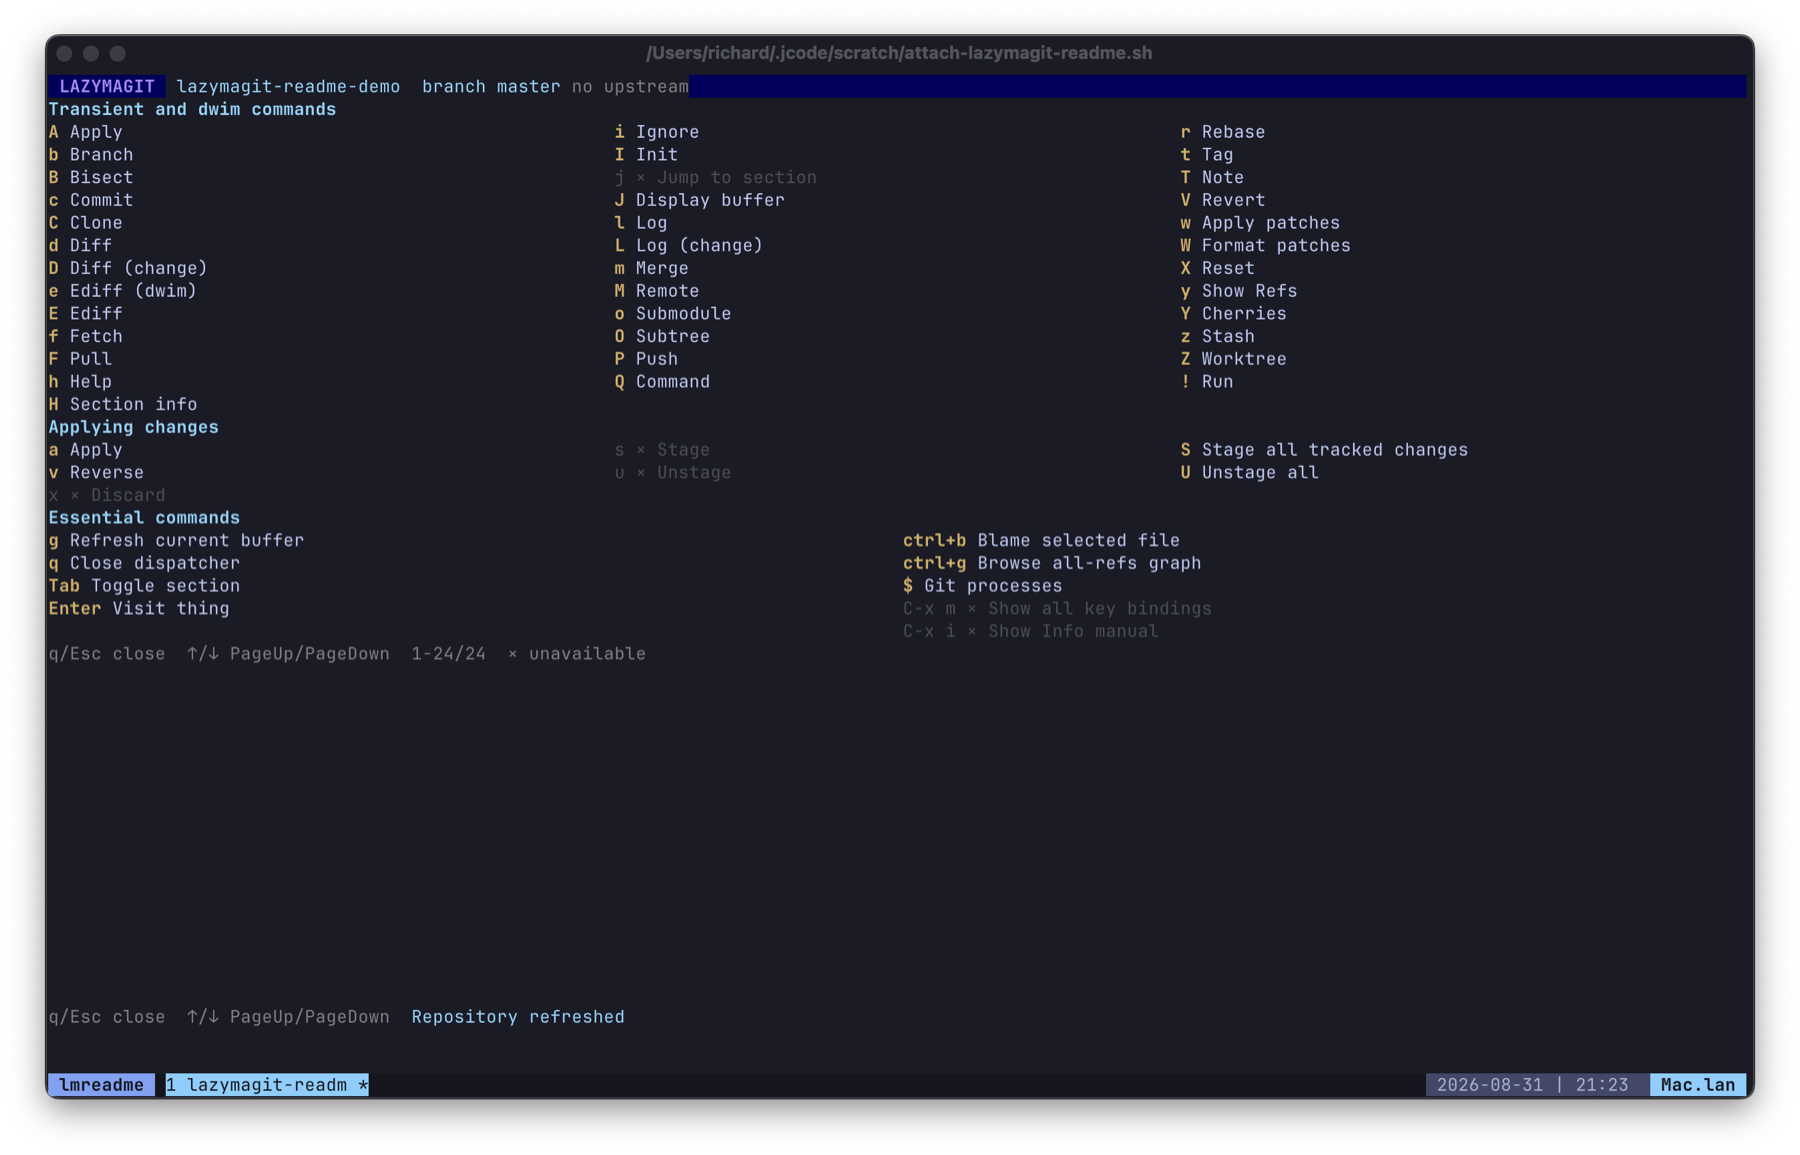
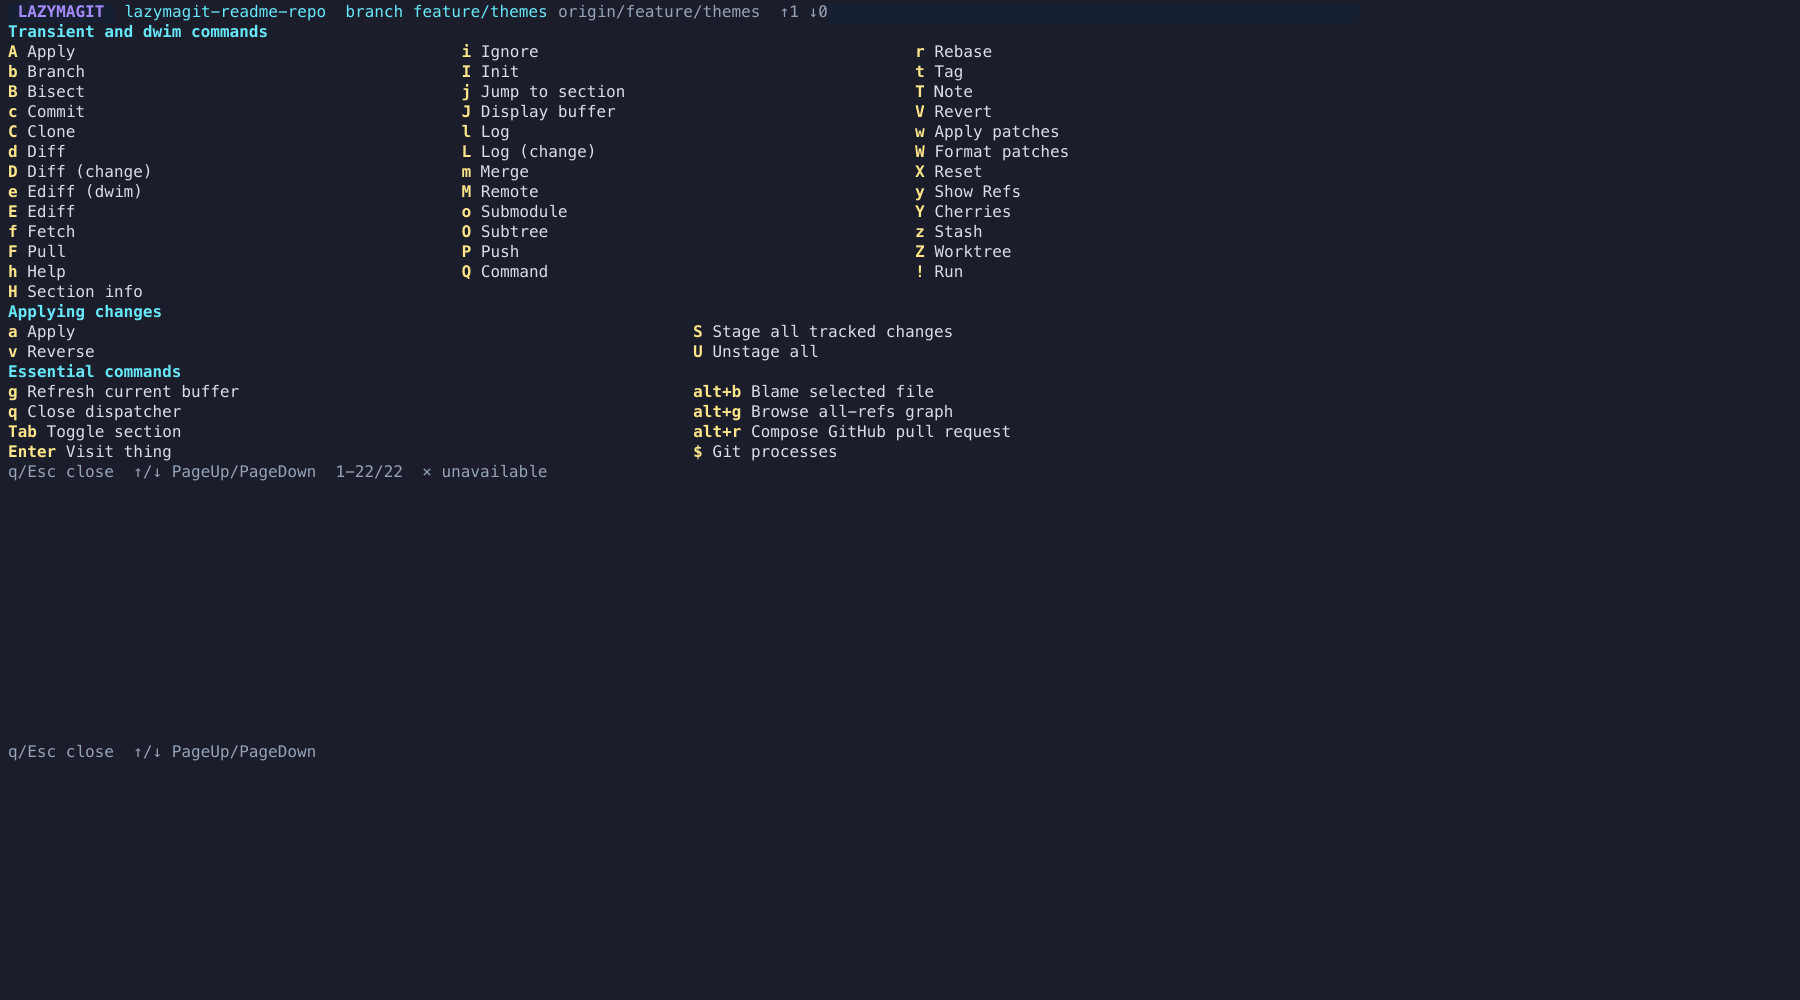
docs: simplify README and refresh screenshots

diff --git a/README.md b/README.md
@@ -1,346 +1,59 @@
 # lazymagit
 
-`lazymagit` is a standalone Go TUI inspired by Magit's status-buffer
-workflow. It combines a section-oriented Git view with Doom Emacs's
-Magit/Evil command bindings and navigation.
+A fast, keyboard-first Git client for the terminal. Lazymagit combines a
+Magit-style status buffer with Doom/Evil-inspired navigation and review-first
+safety for Git operations.
 
 ![Go](https://img.shields.io/badge/Go-1.25+-00ADD8)
 ![TUI](https://img.shields.io/badge/TUI-Bubble_Tea_v2-7D56F4)
 
+## Why lazymagit?
+
+- **Magit workflow, terminal speed** — see and act on your entire working tree.
+- **Safe by default** — review plans and re-check state before destructive work.
+- **Precise changes** — stage, unstage, discard, and review files, hunks, or lines.
+- **Complete workflow** — branches, remotes, worktrees, conflicts, history, and PRs.
+- **Comfortable editing** — Vim-style commit and PR buffers with drafts and undo.
+
 ## Screenshots
 
-### Status and diff
+![Status view with staged, unstaged, and untracked changes beside a selected diff](docs/images/lazymagit-status.png)
 
-![Lazymagit status view showing staged, unstaged, and untracked files beside a selected diff](docs/images/lazymagit-status.png)
-
-### Command dispatcher
-
-![Lazymagit command dispatcher showing Magit-style transient command groups](docs/images/lazymagit-commands.png)
-
-## Features
-
-- Porcelain-v2 status parsing with separate staged and unstaged state
-- Safe handling of spaces, Unicode, leading dashes, and Git pathspec magic
-- Stable, foldable sections for untracked, unstaged, staged, upstream, and log
-- Persistent selectable log/graph rows with contextual cherry-pick, revert, reset, and revision inspection
-- Selectable blame lines with exact commit drilldown and restored cursor position
-- Three-stage conflict inspection with direct reviewed ours/theirs resolution
-- Marked multi-file and reviewed file/hunk/multi-hunk/disjoint-region stage, unstage, and discard
-- Stale-safe interactive patch reviews that revalidate the exact source diff before mutation and reject unresolved conflicts
-- Commit creation, revision inspection, searchable branch switching, multi-remote browsing, and reviewed remote-branch publishing/deletion
-- Vim-style commit and PR message buffers with wrapping, visual selection, undo/redo, paste, and persistent drafts
-- Reviewed GitHub PR creation/editing through `gh`, with title/body, base branch, and draft/ready controls
-- Reviewed merge, non-interactive rebase, cherry-pick/revert, reset, and bisect workflows with stale-state rejection
-- Standard side-by-side and optional compact borderless status/diff layouts
-- Universal status-row search with `/`, then `n` / `N` navigation
-- Searchable worktree and branch browsers
-- Bundled default, Tokyo Night, Catppuccin Mocha, Nord, Dracula, Gruvbox Dark, and Solarized Dark themes
-- Responsive Magit-style command transients with explicit unavailable actions
-- Asynchronous Git operations with stale-result protection
-- Bounded Magit-style Git process transcript with terminal-safe clipboard copy
-- Terminal-control sanitization for untrusted repository content
+![Magit-style command dispatcher](docs/images/lazymagit-commands.png)
 
 ## Install
 
 ### Go
 
-With Go 1.25 or newer installed:
-
 ```sh
 go install github.com/richardrh/lazymagit/cmd/lazymagit@latest
 ```
 
-The binary is installed into `$(go env GOPATH)/bin` unless `GOBIN` is set.
+### Release downloads
 
-### Linux release packages
+Download binaries or native Debian, RPM, and Arch packages from the
+[latest GitHub release](https://github.com/richardrh/lazymagit/releases/latest).
 
-Each tagged GitHub release publishes `amd64` and `arm64` binaries plus native
-Debian, RPM, and Arch Linux packages. Download the package for your architecture
-from the [releases page](https://github.com/richardrh/lazymagit/releases), then
-install it with the platform package manager:
+## Run
 
 ```sh
-# Ubuntu or Debian
-sudo apt install ./lazymagit_*_linux_amd64.deb
-
-# Fedora or another RPM-based distribution
-sudo dnf install ./lazymagit_*_linux_amd64.rpm
-
-# Arch Linux
-sudo pacman -U ./lazymagit_*_linux_amd64.pkg.tar.zst
+lazymagit [repository]
 ```
 
-Generic Linux, macOS, and Windows archives and `checksums.txt` are published
-by the release workflow for every `v*` tag. `go install` users can install
-the module directly; there is not currently a Homebrew tap or formula.
-
-## Build
-
-Requirements: Go 1.25 or newer and Git available on `PATH`.
-GitHub PR composition additionally requires the GitHub CLI (`gh`) with an existing authenticated session.
-
-```sh
-make check
-CGO_ENABLED=0 go build -o lazymagit ./cmd/lazymagit
-./lazymagit [--init] [--theme NAME] [--layout standard|compact] [repository]
-```
-
-`make check` runs formatting, vet, race-enabled tests, the complexity
-threshold check, and generated-keybinding drift checks. To run only the Go
-tests, use `go test ./...`.
-
-The CRAP quality gate currently rejects scores above 100. Accepted scores are
-tracked in `internal/quality/crap-baseline.json` so later changes cannot add
-new violations or worsen existing ones.
-
-The resulting executable contains the Go application and TUI dependencies in
-one binary. Like Magit itself, it invokes the system Git executable for Git
-semantics, hooks, configuration, and authentication.
-
-When the selected directory is not a repository, an interactive invocation
-asks before running `git init`. A non-interactive invocation never prompts;
-pass `--init` to initialize an existing directory explicitly. The explicit
-form initializes the exact directory given, even when that directory is inside
-another repository. Existing repositories (including bare repositories) are
-never reinitialized. Use `--` before a repository path that begins with a dash,
-for example `./lazymagit -- --project`.
-
-## Documentation
-
-The documentation site uses [Hugo Extended](https://gohugo.io/) with the
-[Hextra](https://imfing.github.io/hextra/) theme. Site sources live under
-`doc/content/`; the focused Markdown notes under `docs/` are synchronized into
-the site during each build. See the [documentation site README](doc/README.md)
-for prerequisites and maintenance details.
-
-Preview or build the site from the repository root:
-
-```sh
-make -C doc serve
-make -C doc build
-```
-
-Local site output is written to `doc/public/` and is not committed. The
-development server is available at <http://localhost:1313/lazymagit/>.
-
-`docs/keybindings.md` remains the canonical generated keybinding ledger. Do not
-edit it by hand. Regenerate it with:
-
-```sh
-go run ./internal/keymap/cmd/keymapdoc
-```
-
-Check for generated-documentation drift with:
-
-```sh
-go run ./internal/keymap/cmd/keymapdoc -check
-```
+Use `--init` to initialize a non-repository directory without prompting.
 
 ## Themes
 
-Themes can be selected at startup with `--theme` or changed in the status
-view with the `F2` theme picker. The default is `default`. The bundled themes
-and their canonical names are:
-
-| Theme | Name |
-|---|---|
-| Default | `default` |
-| Tokyo Night | `tokyo-night` |
-| Catppuccin Mocha | `catppuccin-mocha` |
-| Nord | `nord` |
-| Dracula | `dracula` |
-| Gruvbox Dark | `gruvbox-dark` |
-| Solarized Dark | `solarized-dark` |
-
-Use either a canonical name or its display spelling. Names are
-case-insensitive, and spaces or underscores are treated like hyphens.
-`catppuccin` is also accepted as an alias for Catppuccin Mocha. For example:
+Choose a theme at startup:
 
 ```sh
-./lazymagit --theme nord
-./lazymagit --theme "Catppuccin Mocha" ./my-repository
-./lazymagit --theme gruvbox_dark
+lazymagit --theme nord
 ```
 
-Theme options must appear before the repository path. Restart the application
-with a different `--theme` value to change the palette.
+From the status view, press `F2` to change themes. Use `↑`/`↓` or `j`/`k` to
+move, `Enter` to apply, and `q`/`Esc` to cancel.
 
-While in the status view, press `F2` to open the theme picker. Use `↑`/`↓`
-or `j`/`k` to move, `Enter` to apply the selected theme, and `q`/`Esc` to
-cancel.
+## Documentation
 
-## Keys
-
-The application uses one Doom Magit binding model. There is no Vim/Magit mode
-switch. Bindings follow [Doom's Magit configuration](https://github.com/doomemacs/modules/blob/main/modules/tools/magit/config.el)
-on top of [Evil Collection's Magit bindings](https://github.com/emacs-evil/evil-collection/blob/master/modes/magit/evil-collection-magit.el).
-Git transient suffixes retain Magit's bindings; Doom remaps conflicting
-top-level commands around Vim navigation.
-
-| Action | Keys |
-|---|---|
-| Move / first / last row | `j` / `k`, `gg` / `G` |
-| Next / previous sibling section | `]` / `[`, `gj` / `gk` |
-| Parent section | `gh` |
-| Refresh | `gr`, `gR`, or `gz` |
-| Toggle section | `Tab` or `za` |
-| Open / close section | `zo` / `zc`; `zO` / `zC` recursively |
-| Global section depth | `z1`, `z2`, `z3`, `z4`; `zr` expands |
-| Position selected row at top / center / bottom | `zt` / `zz` / `zb` |
-| Half-page / full-page movement | `Ctrl-d` / `Ctrl-u`, `Ctrl-f` / `Ctrl-b` |
-| Detail viewport start / end | `0` / `$` |
-| Stage / unstage | `s` / `u` |
-| Select changed-line range | `v`, then `j` / `k`; `Space` pins a region |
-| Select multiple hunks | `V` |
-| Search / next / previous match | `/`, then `n` / `N` |
-| Stage tracked modifications / unstage all | `S` / `U` |
-| Change theme | `F2` |
-| Reviewed discard | `x` |
-| Commit | `c c` |
-| Compose or edit the current branch's GitHub PR | `Alt-r` |
-| Switch branch | `b b` |
-| Checkout remote branch as local tracking branch | `b l` |
-| Create branch / reviewed branch deletion | `b c` / `b k` |
-| Fetch upstream / push remote | `f u` / `f p` |
-| Fetch selected remote / all remotes | `f e` / `f a` |
-| Add remote | `M a`; `M -f` enables fetching |
-| Push | `p p` |
-| Merge / rebase / cherry-pick | `m` / `r` / `A` |
-| Revert without commit / revert transient | `-` / `_` |
-| Quick reset / reset transient | `o` / `O` |
-| Stash / worktree | `Z` / `*` |
-| Submodule / subtree | `'` / `"` |
-| Show refs / copy section value / copy revision | `yr` / `ys` / `yb` |
-| Git processes | Backtick |
-| Terminal blame / all-refs graph | `Alt-b` / `Alt-g` |
-| Help / close or quit / quit all | `?` / `q` / `Q` |
-| Cancel a prefix, selection, or dialog | `Esc` or `Ctrl-g` |
-
-The `g`, `z`, and `y` prefixes wait for a suffix; a lone `g` never refreshes
-after a delay. `$` and `0` pan the read-only detail viewport, not Git commands.
-`g=` or `~` restores default diff context; `=` reduces context.
-Doom reserves `gz` for refresh, not the upstream Evil Collection stash jump.
-
-Pressing `b`, `c`, `f`, `p`, or `M` opens a grouped command transient. The
-layout uses multiple columns when space permits and one vertically scrollable
-column on narrow terminals; use arrows or `PageUp`/`PageDown`. Commands that
-are not implemented are omitted from the interactive sheets. Implemented
-actions unavailable in the current repository context remain visible with an
-explicit marker. `q`, `Esc`, or `Ctrl-g` closes a transient.
-
-Inside the `?` dispatcher, suffixes also remain stock Magit: `? P` opens Push,
-`? z` opens Stash, `? Z` opens Worktree, and `? $` opens Git processes.
-Normal-state Doom remaps apply again after the transient closes.
-
-`Ctrl-c Ctrl-e` and `Ctrl-c Ctrl-o` open the selected file, revision, or stash
-in the internal read-only detail pane; they never launch `$EDITOR`, `$BROWSER`,
-or a URL handler. `Ctrl-c Ctrl-r` advances to the next visible decorated
-commit row without wrapping. `Ctrl-c` is a command prefix, not quit.
-
-Status navigation uses Doom bindings; commit and PR messages use the Vim-style
-buffer described below. Other workflow forms retain their terminal controls.
-This is not an embedded Vim/Neovim or full Evil/Forge implementation: Ex commands,
-macros, plugins, and Emacs window management are not provided.
-
-`S` stages all tracked modifications and deletions while intentionally leaving
-untracked files alone. `U` clears all index changes while preserving worktree
-content. Both keys work anywhere in the status view, independent of the
-selected section.
-
-Backtick opens a small process window at the bottom of the status view. It keeps a
-bounded, chronological transcript of mutating Git commands, exit codes,
-durations, stdout, and full useful stderr. Failed operations open the window at
-the latest output automatically. Use arrows or `PageUp`/`PageDown` to scroll,
-and `y` to request copying the entire plain, terminal-sanitized transcript via
-OSC52. The confirmation says “Clipboard copy requested” because terminals do
-not acknowledge OSC52 delivery. The displayed command line is an unambiguous
-human representation of arguments, not a claim that a shell was used.
-Use `q` or `Esc` to close it; backtick inside the process window is ignored,
-matching Doom's protection against recursive process buffers.
-
-`M a` opens separate name and URL fields and adds without fetching. Enable
-`M -f` (or `Ctrl-f` in the modal) to explicitly request `git remote add -f`.
-The command remains available after each add, so repositories can configure any
-number of remotes. Remote choosers show each remote's effective fetch URL and a
-distinct push URL when configured, rather than presenting ambiguous names only.
-The URL is passed to Git exactly as entered; the remote name is trimmed.
-`f u` fetches the upstream remote. `f p` fetches the configured push remote, or
-opens a distinct chooser when none is configured; choosing one records
-`branch.<current>.pushRemote` and then fetches it. `f e` is the fetch-only
-remote chooser and `f a` runs `git fetch --all`. `f f` is intentionally unbound
-to match Magit 4.7's exact sequences.
-
-`b l` selects an exact remote-tracking ref, asks for a local branch name, then
-creates and checks out a tracking branch. `b c` keeps local-only branch creation
-and also offers a publish mode: choose an existing local branch, destination
-remote, and remote branch name, review the exact local commit and observed
-remote destination, then push with upstream configuration. `b k` includes both
-non-current local branches and fetched remote-tracking branches. Remote deletion
-reviews the server-advertised commit again immediately before `git push --delete`.
-Remote rename, removal, configuration, and prune remain reviewed `M` workflows.
-
-`p p` uses ordinary `git push` when the current branch already has an upstream.
-Without an upstream, it pushes with `--set-upstream` to the configured push
-remote. If no push remote is configured, a distinct chooser records
-`branch.<current>.pushRemote` and then pushes the current branch while setting
-its upstream; it does not fetch. The chooser configures the current branch.
-There is not yet a separate prompt for configuring repository-wide
-`remote.pushDefault`.
-
-## Commit and PR message buffers
-
-`c c` opens a commit buffer. `c a` and `c w` preload HEAD's message for amend
-and reword. `Alt-r` opens the current branch's existing open GitHub PR, or
-prepares a new PR with HEAD's message and an available local PR template.
-`Alt-r` is a terminal extension, not a stock Magit suffix.
-
-Write the title/subject on the first line, a blank line, then the body.
-Buffers start in **INSERT** mode. **Esc enters NORMAL mode without closing
-or discarding the message.**
-
-| Action | Keys |
-|---|---|
-| Insert / append | `i`, `I`, `a`, `A` |
-| Open a line below / above | `o` / `O` |
-| Move | `h j k l`, arrows, `w b e`, `0 ^ $`, `gg`, `G`; counts such as `3j` |
-| Delete / change | `x`, `X`, `dd`, `D`, `cc`, `C`, `dw`, `cw` |
-| Character / line selection | `v` / `V`, then motions and `y`, `d`, or `c` |
-| Yank line / put | `yy`, `p`, `P` (buffer-local register) |
-| Undo / redo | `u` / `Ctrl-r` in Normal mode |
-| Newline / paste | `Enter` in Insert mode; normal terminal paste |
-| Move between message, options, and action | `Tab` / `Shift-Tab` |
-| Save draft | `Ctrl-s` |
-| Save draft and close | `Ctrl-g` or `Ctrl-c Ctrl-k` |
-| Submit / review | `Ctrl-c Ctrl-c`, or focus the action and press `Enter` |
-| Toggle commit diff / scroll diff or review | `Alt-d` / `Alt-j`, `Alt-k` |
-
-Long lines wrap without changing the stored message, and the viewport follows
-the cursor. The mode, position, title length, and action remain visible.
-Wide commit buffers show a colored diff beside the message; narrow terminals
-use `Alt-d` to switch between them.
-
-Drafts autosave after 500 ms of inactivity and are also saved before closing
-or submitting. They live in private, untracked Git metadata at
-`<git-dir>/lazymagit/drafts/`, separated by branch and operation. Draft JSON is
-limited to 1 MiB and is local plaintext, not encrypted. A rejected hook or
-failed PR request keeps the buffer open with its text and undo history;
-reopening after a restart restores the saved text and options. Successful
-submission removes the corresponding draft.
-
-For PRs, the first submission opens a review of title, body, base/head, and
-draft status. A second `Ctrl-c Ctrl-c` or `Enter` publishes the reviewed values;
-`Esc` returns to editing. New PRs default to draft. Existing PRs are edited
-in place, including draft/ready changes, and the result URL is shown on success.
-Push the branch first: PR publication uses an explicit `--head` and never
-automatically pushes or forks. GitHub authentication/network failures are
-reported rather than treated as an absent PR.
-
-This provides GitHub PR message composition, not the full Forge interface:
-there is no GitLab backend, PR review/comments/checks UI, Markdown preview,
-or picker for multiple open PRs sharing the same head branch.
-
-## Compatibility scope
-
-This is not yet a behavior-exact port of all Magit. The implemented wave now covers the core status workflow, reviewed hunk/changed-line multi-selection mutations, bounded terminal-native conflict inspection and ours/theirs resolution, searchable branch and worktree browsers, compact layout, common commands, and reviewed history workflows. Terminal-native, reviewed interactive rebase todo editing is available for the bounded pick/reword/edit/squash/fixup/drop command set; `exec`, merge-topology todo commands, aliases, and external editors remain intentionally unavailable. Manual merge-buffer editing, binary/rename patch selection, semantic patch editing beyond typed region refinement, executable full transient option sets, and Emacs extension APIs remain out of scope. See [docs/compatibility.md](docs/compatibility.md) for upstream test traceability and [docs/parity.md](docs/parity.md) for the feature-by-feature parity matrix and [docs/keybindings.md](docs/keybindings.md) for the complete 98-key status ledger.
-
-Whole-file destructive actions require confirmation and reject unsafe mixed-state cases. History operations resolve revisions to object IDs, show an immutable Review/Execute plan, revalidate HEAD, index, worktree, and operation administration state immediately before execution, and fail closed with a stale-plan error if repository state changed. Focused hunk, multi-hunk, and changed-line mutations use the same two-phase flow, reconstruct patches inside the backend, reject unresolved target conflicts, and revalidate the exact source diff before mutation.
+See the [documentation](docs/) for workflows, keybindings, and distribution
+details. The Hugo site source is in [`doc/content/`](doc/content/).
